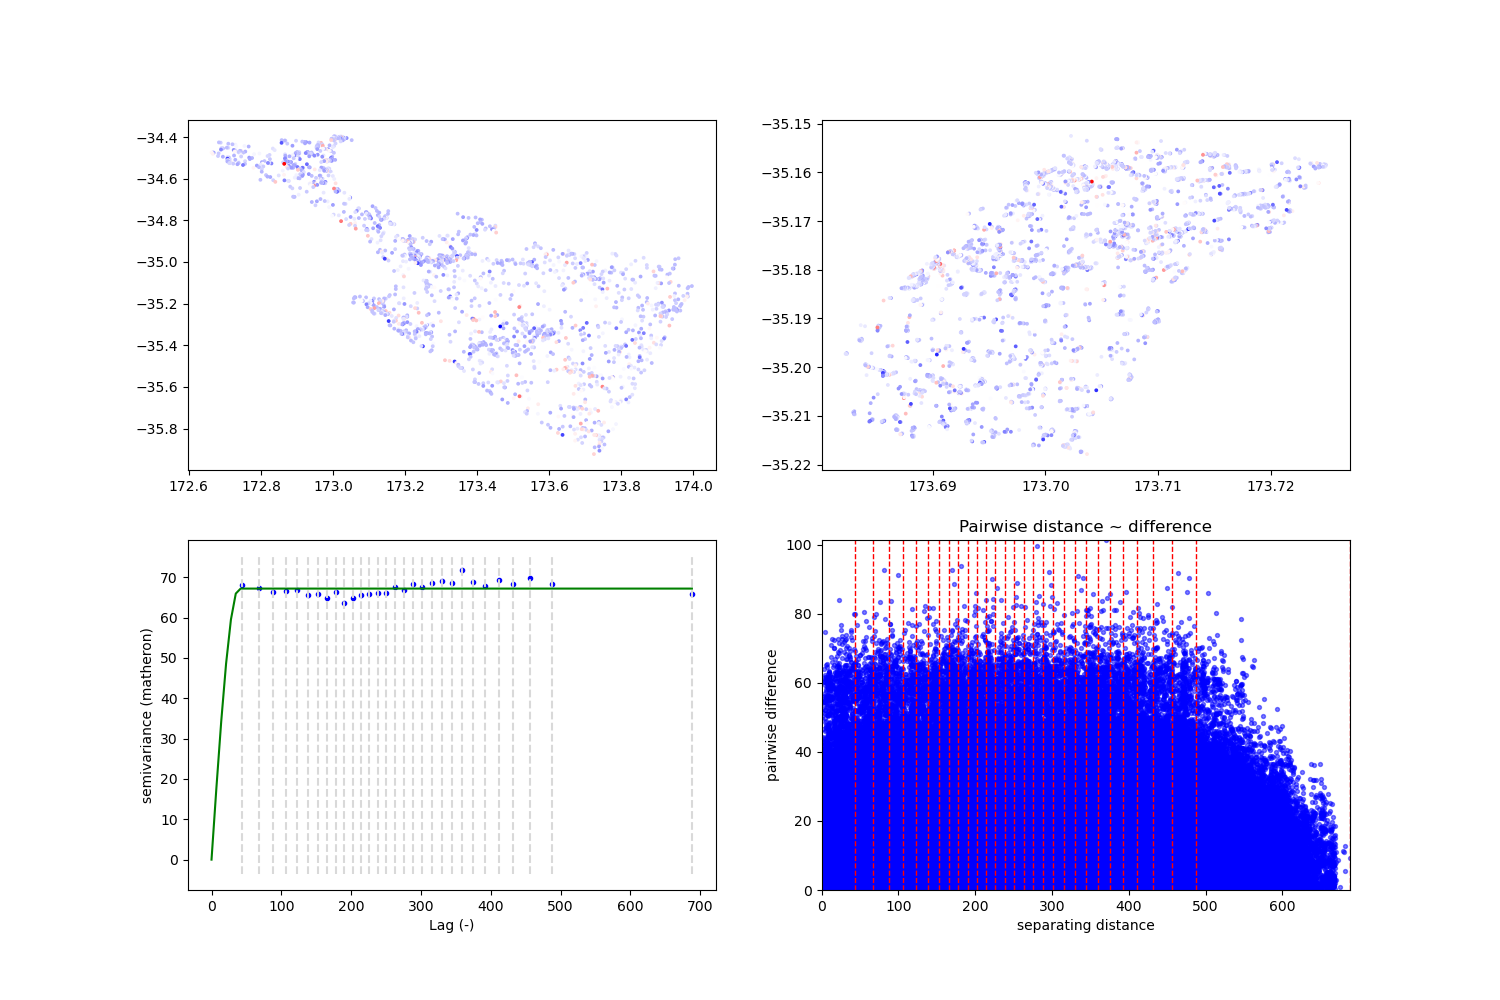
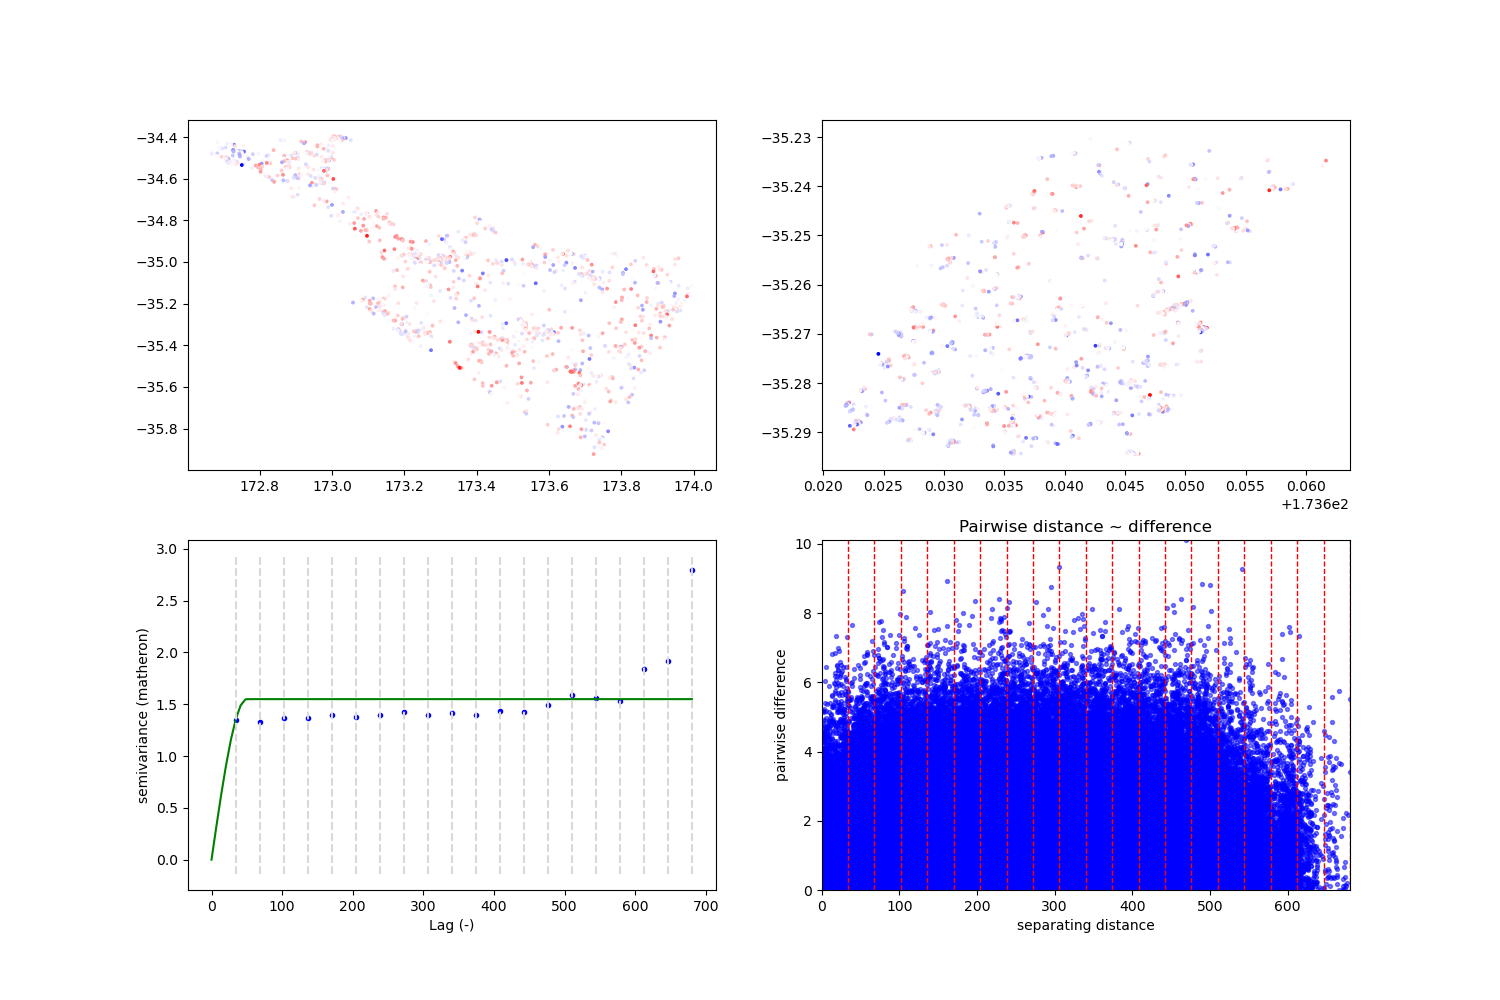
added filtered cumulative displacement

diff --git a/variogram/spatial_variogram.py b/variogram/spatial_variogram.py
@@ -18,10 +18,18 @@ def construct_variogram(filepath):
     rows, cols = vel.shape[0], vel.shape[1]
     print(f'array rows and cols are {rows},{cols}')
 
+    # TO DO - apply reliable pixel mask to velocities
+    # testing filtered displacements, subtract two timesteps to mimic an interferogram
+    disp_raw = f['Cumulative_Displacement_TSmooth']
+    print(disp_raw.shape)
+    vel = np.diff(disp_raw[100:102, :, :], axis=0)
+    vel = vel[0, :, :]
+    print(vel.shape)
+
     center_row = rows // 2
     center_col = cols // 2
-    start_idx = -500
-    end_idx = 0
+    start_idx = 200
+    end_idx = 700
     count_idx = 500
 
     #if rows > cols:
@@ -83,7 +91,7 @@ def construct_variogram(filepath):
     # assert value in original array equal masked array
     #assert vel[masked_rows[0], masked_cols[0]] == masked_vals[0]
     print('calculating variogram')
-    V = skg.Variogram(masked_coords, masked_vals, n_lags=30, bin_func='uniform')
+    V = skg.Variogram(masked_coords, masked_vals, n_lags=20, bin_func='even')
     #V.fit_method ='lm'
     #fig = V.plot(show=False)
     #fig.savefig('test_variogram_'+file+'.png')
